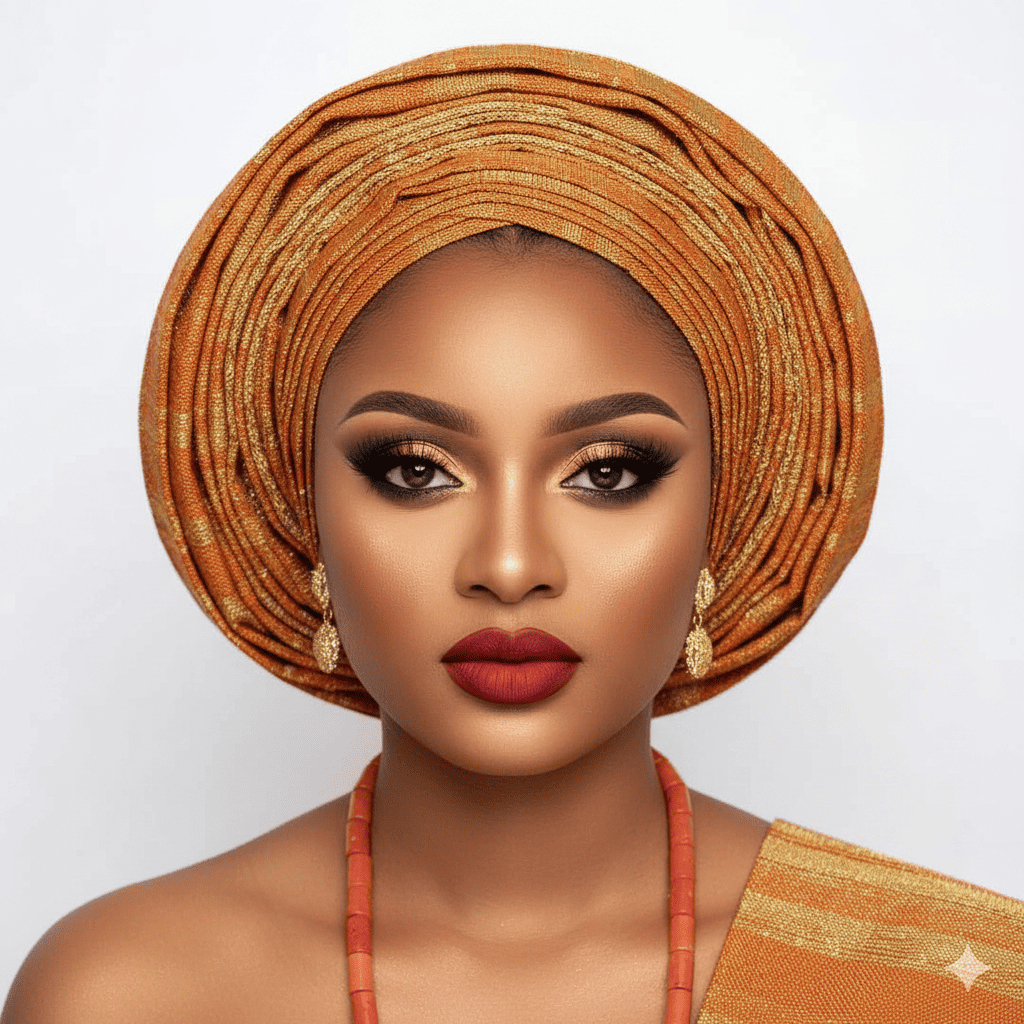
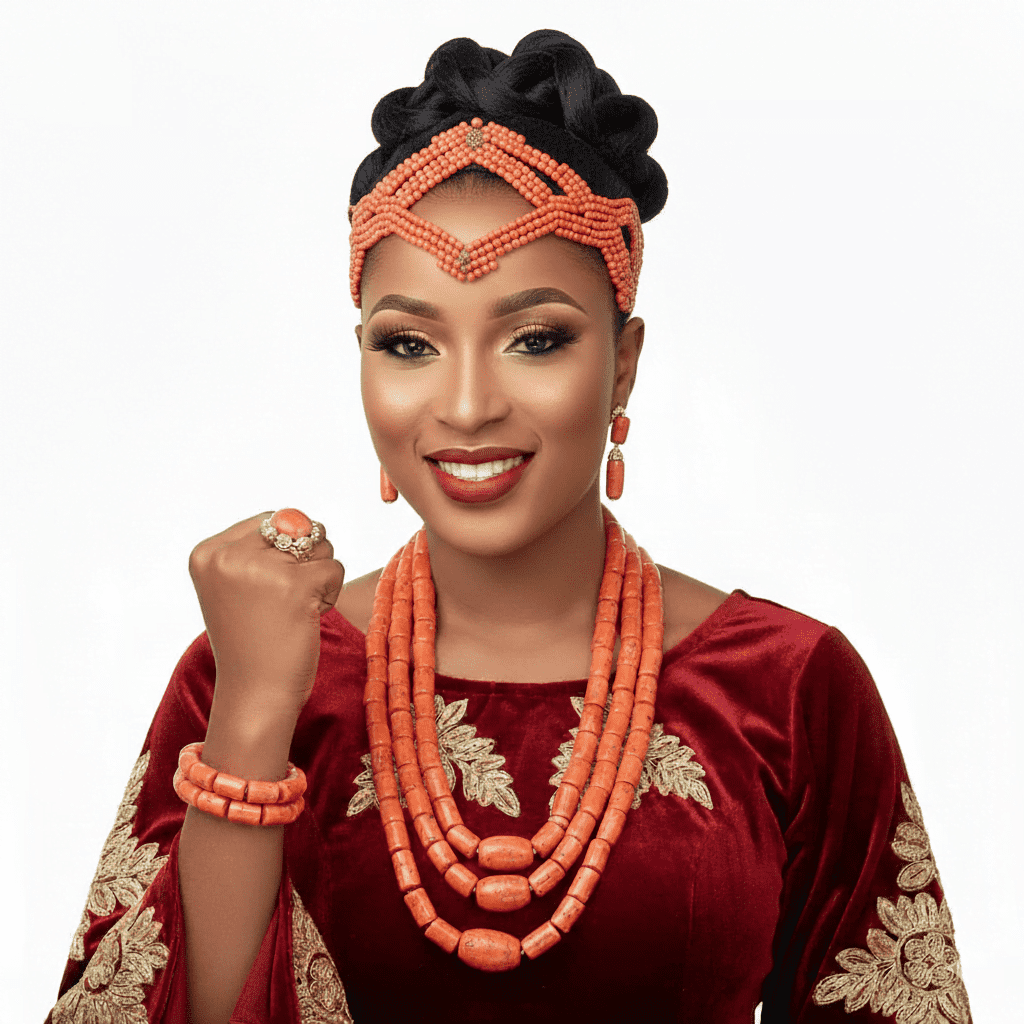
`Updated index.html and services.html with new content and design changes`

diff --git a/index.html b/index.html
@@ -3,7 +3,7 @@
   <head>
     <meta charset="utf-8" />
     <meta name="viewport" content="width=device-width, initial-scale=1" />
-    <title>Nikki Beauty Maison — Professional Makeup Services</title>
+    <title>Nikki Beauty Maison — Professional Makeup Services in the UK</title>
     <link href="https://fonts.googleapis.com/css2?family=Inter:wght@300;400;600;700;800&display=swap" rel="stylesheet">
    <link href="https://fonts.googleapis.com/css2?family=Lexend:wght@300;400;500;600;700&display=swap" rel="stylesheet">
       <link href="https://fonts.googleapis.com/css2?family=Instrument+Serif&display=swap" rel="stylesheet">
@@ -58,40 +58,170 @@
           </div>
       </section>
 
-      <section id="services" class="reveal px-7 py-16 md:px-16">
+      <section id="services" class="reveal px-7 py-16 md:py-24 md:px-16">
         <div class="container">
           <h2 class="text-[11px] lg:text-[12px] text-[#A48111] font-semibold mb-4 tracking-widest">MAKEUP SERVICES FOR EVERY OCCASION</h2>
-          <h2 class="text-3xl font-semibold text-slate-500 mb-8">Our Services</h2>
-          <div class="grid md:grid-cols-3 gap-6  *:duration-300">
+          <h2 class="text-3xl font-semibold text-slate-700 mb-12">Our Services</h2>
+          <div class="grid md:grid-cols-2 lg:grid-cols-4 gap-5">
           
-             
-            <div class='relative bg-slate-50/75 items-center justify-center border-[2px] rounded-xl backdrop-blur-md overflow-hidden '>
-            <img src="./assets/makeup_hero (1).png" alt="">
-            <div class="absolute z-30 -bottom-6 bg-white -left-5 w-[700px] h-28 blur-md "></div>
-            <p class='absolute z-30 p-6 bottom-0 text-[18px] text-slate-600 mt-2 mb-2 font-[500]'>Bridal Looks</p>
-          </div>
+            <!-- Service Card 1: Bridal -->
+            <div class='service-card group relative h-80 rounded-2xl overflow-hidden shadow-lg border border-slate-200 hover:shadow-2xl transition-all duration-500 cursor-pointer'>
+              <img src="./assets/makeup_hero (1).png" alt="Bridal Makeup" class="w-full h-full object-cover group-hover:scale-110 transition-transform duration-500">
+              <div class="absolute inset-0 bg-gradient-to-t from-black/70 via-black/30 to-transparent group-hover:from-black/80 transition-all duration-300"></div>
+              <div class='absolute inset-0 flex flex-col justify-end p-6 group-hover:translate-y-0 transition-transform duration-300'>
+                <h3 class='text-xl font-semibold text-white'>Bridal Looks</h3>
+                <p class='text-sm text-gray-200 mt-2 opacity-0 group-hover:opacity-100 transition-opacity duration-300'>Perfect makeup for your special day</p>
+              </div>
+            </div>
            
-            <div class='relative bg-slate-50/75 items-center justify-center border-[2px] rounded-xl backdrop-blur-md overflow-hidden '>
-            <img src="./assets/makeup_hero (3).png" alt="">
-            <div class="absolute z-30 -bottom-6 bg-white -left-5 w-[700px] h-28 blur-md "></div>
-            <p class='absolute z-30 p-6 bottom-0 text-[18px] text-slate-600 mt-2 mb-2 font-[500]'>Special Events</p>
-          </div>
+            <!-- Service Card 2: Special Events -->
+            <div class='service-card group relative h-80 rounded-2xl overflow-hidden shadow-lg border border-slate-200 hover:shadow-2xl transition-all duration-500 cursor-pointer'>
+              <img src="./assets/makeup_hero (3).png" alt="Special Events Makeup" class="w-full h-full object-cover group-hover:scale-110 transition-transform duration-500">
+              <div class="absolute inset-0 bg-gradient-to-t from-black/70 via-black/30 to-transparent group-hover:from-black/80 transition-all duration-300"></div>
+              <div class='absolute inset-0 flex flex-col justify-end p-6 group-hover:translate-y-0 transition-transform duration-300'>
+                <h3 class='text-xl font-semibold text-white'>Special Events</h3>
+                <p class='text-sm text-gray-200 mt-2 opacity-0 group-hover:opacity-100 transition-opacity duration-300'>Stunning looks for any occasion</p>
+              </div>
+            </div>
      
-            <div class='relative bg-slate-50/75 items-center justify-center border-[2px] rounded-xl backdrop-blur-md overflow-hidden '>
-            <img src="./assets/makeup_hero (2).png" alt="">
-            <div class="absolute z-30 -bottom-6 bg-white -left-5 w-[700px] h-28 blur-md "></div>
-            <p class='absolute z-30 p-6 bottom-0 text-[18px] text-slate-600 mt-2 mb-2 font-[500]'>Traditional Styles</p>
-          </div>
+            <!-- Service Card 3: Traditional Styles -->
+            <div class='service-card group relative h-80 rounded-2xl overflow-hidden shadow-lg border border-slate-200 hover:shadow-2xl transition-all duration-500 cursor-pointer'>
+              <img src="./assets/makeup_hero (2).png" alt="Traditional Makeup" class="w-full h-full object-cover group-hover:scale-110 transition-transform duration-500">
+              <div class="absolute inset-0 bg-gradient-to-t from-black/70 via-black/30 to-transparent group-hover:from-black/80 transition-all duration-300"></div>
+              <div class='absolute inset-0 flex flex-col justify-end p-6 group-hover:translate-y-0 transition-transform duration-300'>
+                <h3 class='text-xl font-semibold text-white'>Traditional Styles</h3>
+                <p class='text-sm text-gray-200 mt-2 opacity-0 group-hover:opacity-100 transition-opacity duration-300'>Celebrate your heritage beautifully</p>
+              </div>
+            </div>
 
-          <div class='relative bg-slate-50/75 items-center justify-center border-[2px] rounded-xl backdrop-blur-md overflow-hidden '>
-            <img src="./assets/makeup_hero (4).png" alt="">
-            <div class="absolute z-30 -bottom-6 bg-white -left-5 w-[700px] h-28 blur-md "></div>
-            <p class='absolute z-30 p-6 bottom-0 text-[18px] text-slate-600 mt-2 mb-2 font-[500]'>Photography</p>
-          </div>
+            <!-- Service Card 4: Photography -->
+            <div class='service-card group relative h-80 rounded-2xl overflow-hidden shadow-lg border border-slate-200 hover:shadow-2xl transition-all duration-500 cursor-pointer'>
+              <img src="./assets/makeup_hero (4).png" alt="Photography Makeup" class="w-full h-full object-cover group-hover:scale-110 transition-transform duration-500">
+              <div class="absolute inset-0 bg-gradient-to-t from-black/70 via-black/30 to-transparent group-hover:from-black/80 transition-all duration-300"></div>
+              <div class='absolute inset-0 flex flex-col justify-end p-6 group-hover:translate-y-0 transition-transform duration-300'>
+                <h3 class='text-xl font-semibold text-white'>Photography</h3>
+                <p class='text-sm text-gray-200 mt-2 opacity-0 group-hover:opacity-100 transition-opacity duration-300'>Camera-ready makeup that photographs beautifully</p>
+              </div>
+            </div>
 
           </div>
-          <div class="mt-10 text-center">
-            <a href="services.html" class="inline-block bg-[#000435] text-white px-8 py-3 rounded-md hover:bg-sky-900 transition-colors">View All Services & Pricing</a>
+          <div class="mt-14 text-center">
+            <a href="services.html" class="inline-block bg-[#000435] hover:bg-[#A48111] text-white px-10 py-4 rounded-full font-semibold transition-all duration-300 transform hover:-translate-y-1 shadow-lg hover:shadow-xl">View all Services & Pricing &#8594;</a>
+          </div>
+        </div>
+      </section>
+
+      <!-- Why Choose Us Section -->
+      <section class="reveal px-7 py-16 md:py-28 md:px-16 bg-gradient-to-br from-slate-50 to-white">
+        <div class="container">
+          <h2 class="text-[11px] lg:text-[12px] text-[#A48111] font-semibold mb-4 tracking-widest">WHY CHOOSE US</h2>
+          <h2 class="text-3xl font-semibold text-slate-700 mb-12">What Sets Us Apart</h2>
+          <div class="grid md:grid-cols-2 lg:grid-cols-4 gap-6">
+            <!-- Feature 1 -->
+            <div class="group p-6 rounded-2xl bg-white border border-slate-200 hover:shadow-lg hover:border-[#A48111] transition-all duration-300">
+              <div class="mb-4 inline-flex p-3 bg-[#A48111]/10 rounded-lg group-hover:bg-[#A48111]/20 transition-colors">
+                <i class="fas fa-crown text-[#A48111] text-2xl"></i>
+              </div>
+              <h3 class="text-lg font-semibold text-slate-800 mb-2">Professional Expertise</h3>
+              <p class="text-slate-600 text-sm">Years of experience in bridal, events, and traditional makeup with certified techniques.</p>
+            </div>
+            <!-- Feature 2 -->
+            <div class="group p-6 rounded-2xl bg-white border border-slate-200 hover:shadow-lg hover:border-[#A48111] transition-all duration-300">
+              <div class="mb-4 inline-flex p-3 bg-[#A48111]/10 rounded-lg group-hover:bg-[#A48111]/20 transition-colors">
+                <i class="fas fa-palette text-[#A48111] text-2xl"></i>
+              </div>
+              <h3 class="text-lg font-semibold text-slate-800 mb-2">Premium Products</h3>
+              <p class="text-slate-600 text-sm">Using high-quality, long-lasting products that enhance and protect your skin.</p>
+            </div>
+            <!-- Feature 3 -->
+            <div class="group p-6 rounded-2xl bg-white border border-slate-200 hover:shadow-lg hover:border-[#A48111] transition-all duration-300">
+              <div class="mb-4 inline-flex p-3 bg-[#A48111]/10 rounded-lg group-hover:bg-[#A48111]/20 transition-colors">
+                <i class="fas fa-heart text-[#A48111] text-2xl"></i>
+              </div>
+              <h3 class="text-lg font-semibold text-slate-800 mb-2">Personalized Service</h3>
+              <p class="text-slate-600 text-sm">Each client receives a customized makeup experience tailored to their unique features.</p>
+            </div>
+            <!-- Feature 4 -->
+            <div class="group p-6 rounded-2xl bg-white border border-slate-200 hover:shadow-lg hover:border-[#A48111] transition-all duration-300">
+              <div class="mb-4 inline-flex p-3 bg-[#A48111]/10 rounded-lg group-hover:bg-[#A48111]/20 transition-colors">
+                <i class="fas fa-clock text-[#A48111] text-2xl"></i>
+              </div>
+              <h3 class="text-lg font-semibold text-slate-800 mb-2">On-Time Delivery</h3>
+              <p class="text-slate-600 text-sm">Punctuality guaranteed. We respect your time and ensure timely completion.</p>
+            </div>
+          </div>
+        </div>
+      </section>
+
+      <!-- Stats Section -->
+      <section class="reveal px-7 py-16 md:py-28 md:px-16 bg-[#000435]">
+        <div class="container">
+          <div class="grid md:grid-cols-2 lg:grid-cols-4 gap-8">
+            <!-- Stat 1 -->
+            <div class="text-center">
+              <div class="text-5xl md:text-6xl font-bold text-[#A48111] mb-2">500+</div>
+              <p class="text-gray-200 text-lg">Happy Clients</p>
+            </div>
+            <!-- Stat 2 -->
+            <div class="text-center">
+              <div class="text-5xl md:text-6xl font-bold text-[#A48111] mb-2">8+</div>
+              <p class="text-gray-200 text-lg">Years Experience</p>
+            </div>
+            <!-- Stat 3 -->
+            <div class="text-center">
+              <div class="text-5xl md:text-6xl font-bold text-[#A48111] mb-2">4.9★</div>
+              <p class="text-gray-200 text-lg">Average Rating</p>
+            </div>
+            <!-- Stat 4 -->
+            <div class="text-center">
+              <div class="text-5xl md:text-6xl font-bold text-[#A48111] mb-2">100%</div>
+              <p class="text-gray-200 text-lg">Satisfaction Rate</p>
+            </div>
+          </div>
+        </div>
+      </section>
+
+      <!-- How It Works Section -->
+      <section class="reveal px-7 py-16 md:py-28 md:px-16 bg-white">
+        <div class="container">
+          <h2 class="text-[11px] lg:text-[12px] text-[#A48111] font-semibold mb-4 tracking-widest">OUR PROCESS</h2>
+          <h2 class="text-3xl font-semibold text-slate-700 mb-12">How It Works</h2>
+          <div class="grid md:grid-cols-4 gap-6">
+            <!-- Step 1 -->
+            <div class="relative">
+              <div class="flex flex-col items-center">
+                <div class="w-16 h-16 rounded-full bg-[#A48111] flex items-center justify-center text-white text-2xl font-bold mb-4 shadow-lg">1</div>
+                <h3 class="text-lg font-semibold text-slate-800 text-center mb-2">Book</h3>
+                <p class="text-slate-600 text-sm text-center">Choose your preferred date and service on our booking platform</p>
+              </div>
+              <div class="hidden md:block absolute top-8 -right-3 w-6 h-1 bg-[#A48111]"></div>
+            </div>
+            <!-- Step 2 -->
+            <div class="relative">
+              <div class="flex flex-col items-center">
+                <div class="w-16 h-16 rounded-full bg-[#A48111] flex items-center justify-center text-white text-2xl font-bold mb-4 shadow-lg">2</div>
+                <h3 class="text-lg font-semibold text-slate-800 text-center mb-2">Consultation</h3>
+                <p class="text-slate-600 text-sm text-center">Discuss your vision and preferences before the appointment</p>
+              </div>
+              <div class="hidden md:block absolute top-8 -right-3 w-6 h-1 bg-[#A48111]"></div>
+            </div>
+            <!-- Step 3 -->
+            <div class="relative">
+              <div class="flex flex-col items-center">
+                <div class="w-16 h-16 rounded-full bg-[#A48111] flex items-center justify-center text-white text-2xl font-bold mb-4 shadow-lg">3</div>
+                <h3 class="text-lg font-semibold text-slate-800 text-center mb-2">Preparation</h3>
+                <p class="text-slate-600 text-sm text-center">Skincare prep ensures perfect base for flawless makeup application</p>
+              </div>
+              <div class="hidden md:block absolute top-8 -right-3 w-6 h-1 bg-[#A48111]"></div>
+            </div>
+            <!-- Step 4 -->
+            <div class="relative">
+              <div class="flex flex-col items-center">
+                <div class="w-16 h-16 rounded-full bg-[#A48111] flex items-center justify-center text-white text-2xl font-bold mb-4 shadow-lg">4</div>
+                <h3 class="text-lg font-semibold text-slate-800 text-center mb-2">Enjoy</h3>
+                <p class="text-slate-600 text-sm text-center">Walk out feeling confident and beautiful in your custom look</p>
+              </div>
+            </div>
           </div>
         </div>
       </section>
@@ -142,6 +272,86 @@
         </section>
 
 
+      <!-- FAQ Section -->
+      <section class="reveal px-7 py-16 md:py-28 md:px-16 bg-slate-50">
+        <div class="container max-w-3xl">
+          <h2 class="text-[11px] lg:text-[12px] text-[#A48111] font-semibold mb-4 tracking-widest">FREQUENTLY ASKED QUESTIONS</h2>
+          <h2 class="text-3xl font-semibold text-slate-700 mb-12">Got Questions?</h2>
+          <div class="space-y-4">
+            <!-- FAQ Item 1 -->
+            <details class="group border border-slate-200 rounded-lg overflow-hidden bg-white hover:border-[#A48111] transition-colors">
+              <summary class="flex items-center justify-between p-6 cursor-pointer select-none group-open:bg-[#A48111]/5">
+                <h3 class="font-semibold text-slate-800">How long does a makeup session take?</h3>
+                <span class="text-[#A48111] text-2xl group-open:rotate-180 transition-transform">+</span>
+              </summary>
+              <p class="px-6 pb-6 text-slate-600">Most makeup sessions take 45 minutes to 1 hour, depending on the complexity of the look and your specific requests. Bridal makeup typically takes 1-1.5 hours.</p>
+            </details>
+            <!-- FAQ Item 2 -->
+            <details class="group border border-slate-200 rounded-lg overflow-hidden bg-white hover:border-[#A48111] transition-colors">
+              <summary class="flex items-center justify-between p-6 cursor-pointer select-none group-open:bg-[#A48111]/5">
+                <h3 class="font-semibold text-slate-800">Do you offer trial sessions?</h3>
+                <span class="text-[#A48111] text-2xl group-open:rotate-180 transition-transform">+</span>
+              </summary>
+              <p class="px-6 pb-6 text-slate-600">Yes! We highly recommend trial sessions before your big event. This allows us to understand your preferences and ensure you're completely happy with the look.</p>
+            </details>
+            <!-- FAQ Item 3 -->
+            <details class="group border border-slate-200 rounded-lg overflow-hidden bg-white hover:border-[#A48111] transition-colors">
+              <summary class="flex items-center justify-between p-6 cursor-pointer select-none group-open:bg-[#A48111]/5">
+                <h3 class="font-semibold text-slate-800">Are your products suitable for sensitive skin?</h3>
+                <span class="text-[#A48111] text-2xl group-open:rotate-180 transition-transform">+</span>
+              </summary>
+              <p class="px-6 pb-6 text-slate-600">We use professional-grade, hypoallergenic products suitable for all skin types. We can always adjust based on your skin's needs and any allergies you may have.</p>
+            </details>
+            <!-- FAQ Item 4 -->
+            <details class="group border border-slate-200 rounded-lg overflow-hidden bg-white hover:border-[#A48111] transition-colors">
+              <summary class="flex items-center justify-between p-6 cursor-pointer select-none group-open:bg-[#A48111]/5">
+                <h3 class="font-semibold text-slate-800">What's your cancellation policy?</h3>
+                <span class="text-[#A48111] text-2xl group-open:rotate-180 transition-transform">+</span>
+              </summary>
+              <p class="px-6 pb-6 text-slate-600">We require 48 hours notice for cancellations. Your £20 deposit is non-refundable but can be transferred to another date if requested in advance.</p>
+            </details>
+            <!-- FAQ Item 5 -->
+            <details class="group border border-slate-200 rounded-lg overflow-hidden bg-white hover:border-[#A48111] transition-colors">
+              <summary class="flex items-center justify-between p-6 cursor-pointer select-none group-open:bg-[#A48111]/5">
+                <h3 class="font-semibold text-slate-800">Do you offer bridal party makeup?</h3>
+                <span class="text-[#A48111] text-2xl group-open:rotate-180 transition-transform">+</span>
+              </summary>
+              <p class="px-6 pb-6 text-slate-600">Absolutely! We offer group bookings for bridesmaids, mothers, and other wedding party members. We provide coordinated looks while maintaining each person's unique features.</p>
+            </details>
+          </div>
+        </div>
+      </section>
+
+      <!-- Special Offers Section -->
+      <section class="reveal px-7 py-16 md:py-28 md:px-16 bg-gradient-to-r from-[#000435] to-[#1a1b4d]">
+        <div class="container">
+          <div class="grid md:grid-cols-2 gap-8">
+            <!-- Offer 1 -->
+            <div class="relative p-8 rounded-2xl border border-[#A48111]/30 bg-[#A48111]/5 hover:bg-[#A48111]/10 transition-all duration-300 group overflow-hidden">
+              <div class="absolute top-0 right-0 w-40 h-40 bg-[#A48111]/10 rounded-full -mr-20 -mt-20 group-hover:scale-150 transition-transform duration-500"></div>
+              <div class="relative z-10">
+                <div class="inline-block px-3 py-1 rounded-full bg-[#A48111]/20 text-[#A48111] text-xs font-semibold mb-3">LIMITED TIME</div>
+                <h3 class="text-2xl font-bold text-white mb-2">Bridal Package</h3>
+                <p class="text-gray-300 mb-4">Bride + 3 Bridesmaids makeup session with trial included</p>
+                <div class="text-3xl font-bold text-[#A48111] mb-4">£199 <span class="text-lg text-gray-400 line-through">£250</span></div>
+                <a href="booking.html" class="inline-block bg-[#A48111] hover:bg-[#845422] text-white px-6 py-3 rounded-lg font-semibold transition-all duration-300">Book Now</a>
+              </div>
+            </div>
+            <!-- Offer 2 -->
+            <div class="relative p-8 rounded-2xl border border-[#A48111]/30 bg-[#A48111]/5 hover:bg-[#A48111]/10 transition-all duration-300 group overflow-hidden">
+              <div class="absolute top-0 right-0 w-40 h-40 bg-[#A48111]/10 rounded-full -mr-20 -mt-20 group-hover:scale-150 transition-transform duration-500"></div>
+              <div class="relative z-10">
+                <div class="inline-block px-3 py-1 rounded-full bg-[#A48111]/20 text-[#A48111] text-xs font-semibold mb-3">SEASONAL OFFER</div>
+                <h3 class="text-2xl font-bold text-white mb-2">Special Events Bundle</h3>
+                <p class="text-gray-300 mb-4">Makeup + Touch-up kit + Detailed care instructions included</p>
+                <div class="text-3xl font-bold text-[#A48111] mb-4">£85 <span class="text-lg text-gray-400 line-through">£110</span></div>
+                <a href="booking.html" class="inline-block bg-[#A48111] hover:bg-[#845422] text-white px-6 py-3 rounded-lg font-semibold transition-all duration-300">Claim Offer</a>
+              </div>
+            </div>
+          </div>
+        </div>
+      </section>
+
       <section id="contact" class="reveal px-7 py-16 md:py-36 md:px-16">
         <div class="container">
           <h2 class="text-[11px] lg:text-[12px] text-[#A48111] font-semibold mb-4 tracking-widest">REACH OUT TO US</h2>
@@ -159,6 +369,16 @@
           
         </div>
       </section>
+
+      <!-- Call to Action -->
+       <div class="container px-7 md:px-16 mb-24">
+        <div class="mt-24 p-10 md:p-12 bg-slate-100 rounded-2xl border border-slate-100 text-center">
+            <h2 class="text-2xl md:text-3xl font-instrument text-[#000435] mb-4">Ready to elevate your look?</h2>
+            <p class="text-slate-500 mb-8 max-w-md mx-auto">A £20 deposit is required to secure your appointment. Secure your preferred date today.</p>
+            <a href="booking.html" class="inline-block bg-[#000435] hover:bg-[#A48111] text-white px-10 py-4 rounded-full font-semibold transition-all duration-300 transform hover:-translate-y-1">Book Your Session</a>
+        </div>
+        </div>
+
     </main>
 
     <footer class="bg-[#091331] p-12 md:pb-12 lg:pb-12 md:p-28 lg:p-28">

diff --git a/services.html b/services.html
@@ -170,7 +170,7 @@
         </div>
 
         <!-- Call to Action -->
-        <div class="mt-24 p-12 bg-slate-100 rounded-2xl border border-slate-100 text-center">
+        <div class="mt-24 p-10 md:p-12 bg-slate-100 rounded-2xl border border-slate-100 text-center">
             <h2 class="text-2xl md:text-3xl font-instrument text-[#000435] mb-4">Ready to elevate your look?</h2>
             <p class="text-slate-500 mb-8 max-w-md mx-auto">A £20 deposit is required to secure your appointment. Secure your preferred date today.</p>
             <a href="booking.html" class="inline-block bg-[#000435] hover:bg-[#A48111] text-white px-10 py-4 rounded-full font-semibold transition-all duration-300 transform hover:-translate-y-1">Book Your Session</a>
